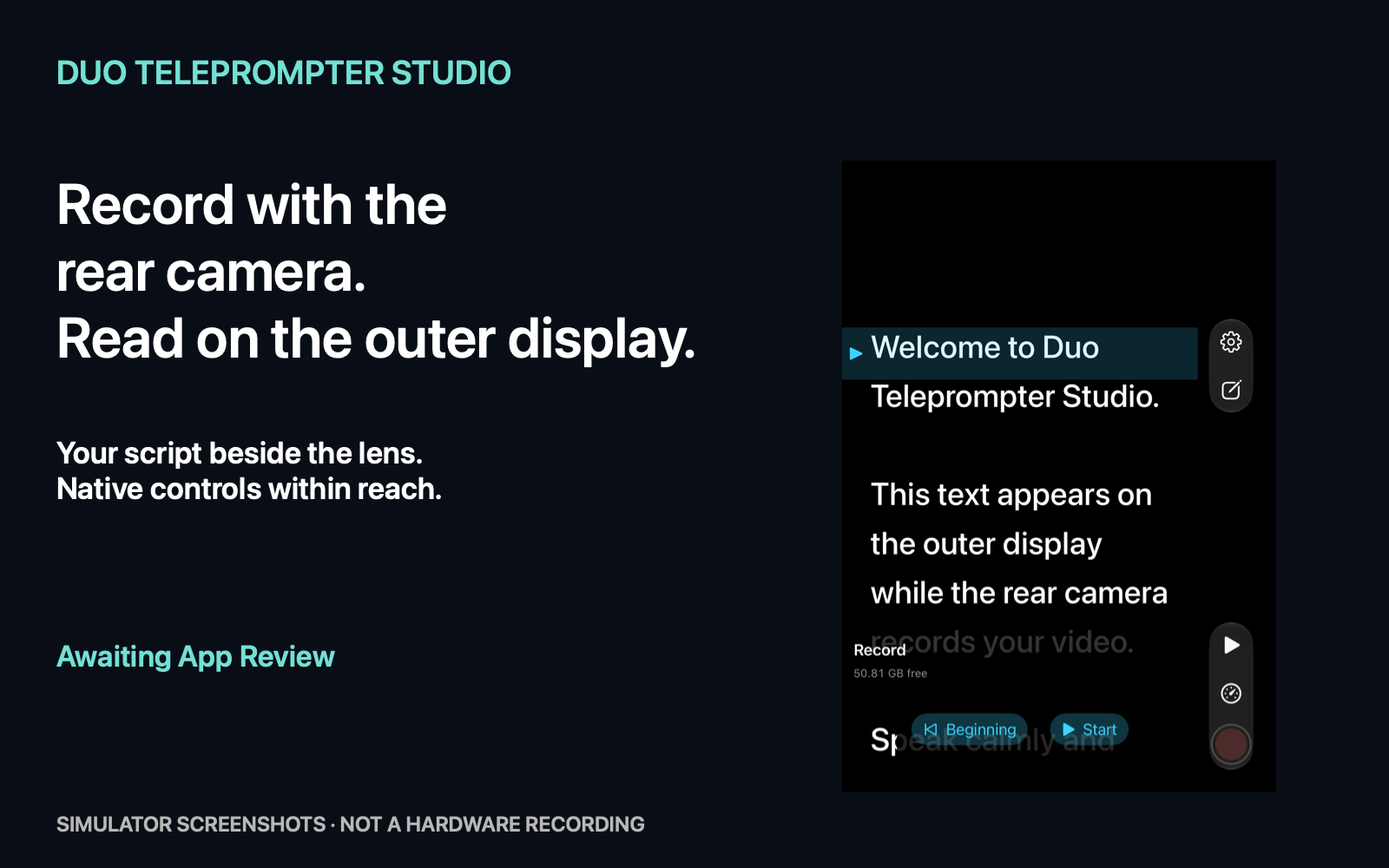
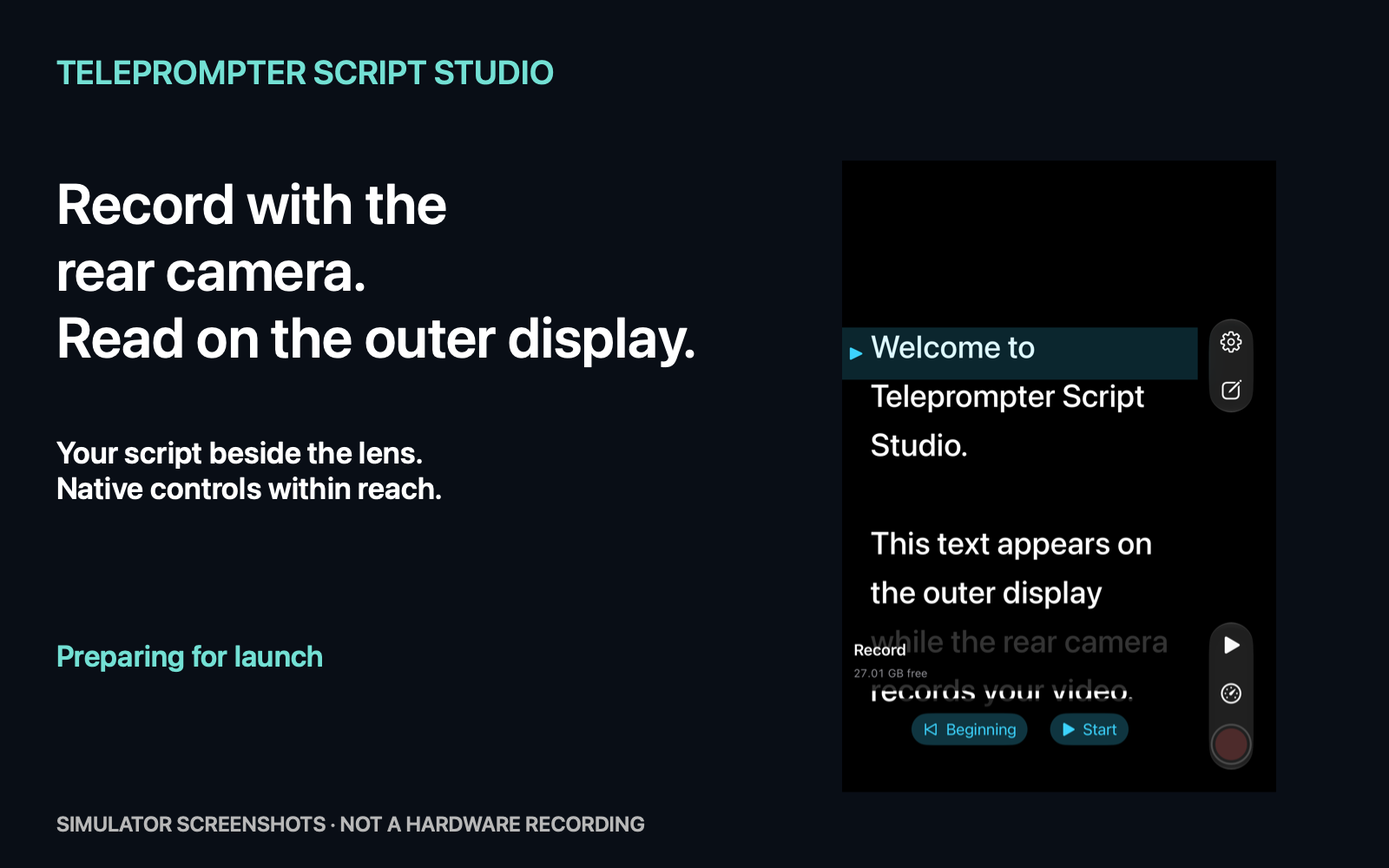
Correct app branding to Teleprompter Script Studio and clarify recording compatibility

diff --git a/duo-teleprompter/privacy-de.html b/duo-teleprompter/privacy-de.html
@@ -1,2 +1,2 @@
 <!doctype html>
-<html lang="de"><head><meta charset="utf-8"><meta name="viewport" content="width=device-width,initial-scale=1"><meta name="referrer" content="no-referrer"><title>Datenschutz · Duo Teleprompter Studio</title><link rel="stylesheet" href="styles.css"></head><body><main><nav><a href="index-de.html">Duo Teleprompter Studio</a><a href="support-de.html">Support</a><a href="privacy-de.html">Datenschutz</a><a href="privacy.html" lang="en">English</a></nav><p class="eyebrow">DUO TELEPROMPTER STUDIO</p><h1>Datenschutz</h1><p class="lead">Deine Texte. Deine Aufnahmen. Auf deinem Gerät.</p><p>Stand: 23. Oktober 2026</p><h2>Verantwortlicher und Kontakt</h2><p>Verantwortlich für Duo Teleprompter Studio: Adrian Herbst. Bei Fragen zum Datenschutz oder zur App: shadowenemylp@gmail.com.</p><h2>Lokale Verarbeitung</h2><p>Skripte, importierte Texte, Einstellungen, Lesepositionen und Aufnahmen werden auf deinem Gerät verarbeitet und im App-Container gespeichert. Duo Teleprompter Studio betreibt keine eigenen Server und überträgt diese Inhalte nicht an den Entwickler. Es gibt kein Benutzerkonto, kein Tracking, keine Werbung und keine Analyse-SDKs.</p><h2>Kamera, Mikrofon und Fotos</h2><p>Kamera und Mikrofon werden für deine Videoaufnahmen benötigt. Die Berechtigungen werden bei der ersten Aktivierung angefragt. Beim ausdrücklich gewählten Export nach Fotos fordert die App ausschließlich das Hinzufügen von Videos an; sie liest keine vorhandene Fotomediathek. Die interne Originalaufnahme bleibt erhalten. Berechtigungen kannst du in den iOS-Einstellungen ändern.</p><h2>Dateiimport und Texterkennung</h2><p>Die App liest nur Dateien, die du über die iOS-Dateiauswahl auswählst. TXT, RTF, DOCX und PDF werden lokal verarbeitet. Texterkennung für gescannte PDF-Seiten erfolgt auf dem Gerät. Falls du Dateien aus einem Cloud-Dateianbieter auswählst, kann iOS sie über diesen Anbieter laden.</p><h2>Speicherung und Kontrolle</h2><p>Die App löscht nicht exportierte Aufnahmen nicht automatisch. Durch das Löschen der App werden ihre lokalen Daten entfernt; exportierte Videos bleiben in Fotos. iOS-Gerätesicherungen und eine von dir aktivierte Synchronisierung deiner Fotomediathek können Kopien enthalten. Duo Teleprompter Studio bietet keinen eigenen Cloud-Sync. Systemkopien verwaltest du in den Einstellungen des jeweiligen Apple-Dienstes.</p><h2>Support, Website und deine Rechte</h2><p>Wenn du uns per E-Mail kontaktierst, verarbeiten wir deine Adresse und den Inhalt deiner Nachricht ausschließlich zur Bearbeitung deiner Anfrage auf Grundlage unseres berechtigten Interesses an der Beantwortung (Art. 6 Abs. 1 lit. f DSGVO). Wir löschen die Korrespondenz, sobald sie nicht mehr benötigt wird, soweit keine Aufbewahrungspflichten bestehen. Bitte sende keine privaten Skripte oder Videos. Diese Website wird von GitHub Pages bereitgestellt. GitHub kann technische Zugriffsdaten wie IP-Adressen zur Bereitstellung und Sicherheit verarbeiten. Wir setzen keine eigenen Cookies oder Analysewerkzeuge ein. Für von uns verarbeitete personenbezogene Daten kannst du im gesetzlichen Umfang Auskunft, Berichtigung, Löschung, Einschränkung, Widerspruch und Datenübertragbarkeit verlangen und dich bei einer Datenschutzaufsichtsbehörde beschweren. Wende dich dafür an die oben genannte Kontaktadresse. Auf deine lokalen App-Inhalte haben wir keinen Zugriff.</p><p><a href="https://docs.github.com/en/site-policy/privacy-policies/github-general-privacy-statement">GitHub Privacy Statement</a> · <a href="https://www.apple.com/legal/privacy/">Apple Privacy Policy</a></p><footer>© 2026 Adrian Herbst · <a href="mailto:shadowenemylp@gmail.com">shadowenemylp@gmail.com</a> · <a href="imprint.html">Impressum / Legal notice</a></footer></main></body></html>
+<html lang="de"><head><meta charset="utf-8"><meta name="viewport" content="width=device-width,initial-scale=1"><meta name="referrer" content="no-referrer"><title>Datenschutz · Teleprompter Script Studio</title><link rel="stylesheet" href="styles.css"></head><body><main><nav><a href="index-de.html">Teleprompter Script Studio</a><a href="support-de.html">Support</a><a href="privacy-de.html">Datenschutz</a><a href="privacy.html" lang="en">English</a></nav><p class="eyebrow">TELEPROMPTER SCRIPT STUDIO</p><h1>Datenschutz</h1><p class="lead">Deine Texte. Deine Aufnahmen. Auf deinem Gerät.</p><p>Stand: 23. Oktober 2026</p><h2>Verantwortlicher und Kontakt</h2><p>Verantwortlich für Teleprompter Script Studio: Adrian Herbst. Bei Fragen zum Datenschutz oder zur App: shadowenemylp@gmail.com.</p><h2>Lokale Verarbeitung</h2><p>Skripte, importierte Texte, Einstellungen, Lesepositionen und Aufnahmen werden auf deinem Gerät verarbeitet und im App-Container gespeichert. Teleprompter Script Studio betreibt keine eigenen Server und überträgt diese Inhalte nicht an den Entwickler. Es gibt kein Benutzerkonto, kein Tracking, keine Werbung und keine Analyse-SDKs.</p><h2>Kamera, Mikrofon und Fotos</h2><p>Kamera und Mikrofon werden für deine Videoaufnahmen benötigt. Die Berechtigungen werden bei der ersten Aktivierung angefragt. Beim ausdrücklich gewählten Export nach Fotos fordert die App ausschließlich das Hinzufügen von Videos an; sie liest keine vorhandene Fotomediathek. Die interne Originalaufnahme bleibt erhalten. Berechtigungen kannst du in den iOS-Einstellungen ändern.</p><h2>Dateiimport und Texterkennung</h2><p>Die App liest nur Dateien, die du über die iOS-Dateiauswahl auswählst. TXT, RTF, DOCX und PDF werden lokal verarbeitet. Texterkennung für gescannte PDF-Seiten erfolgt auf dem Gerät. Falls du Dateien aus einem Cloud-Dateianbieter auswählst, kann iOS sie über diesen Anbieter laden.</p><h2>Speicherung und Kontrolle</h2><p>Die App löscht nicht exportierte Aufnahmen nicht automatisch. Durch das Löschen der App werden ihre lokalen Daten entfernt; exportierte Videos bleiben in Fotos. iOS-Gerätesicherungen und eine von dir aktivierte Synchronisierung deiner Fotomediathek können Kopien enthalten. Teleprompter Script Studio bietet keinen eigenen Cloud-Sync. Systemkopien verwaltest du in den Einstellungen des jeweiligen Apple-Dienstes.</p><h2>Support, Website und deine Rechte</h2><p>Wenn du uns per E-Mail kontaktierst, verarbeiten wir deine Adresse und den Inhalt deiner Nachricht ausschließlich zur Bearbeitung deiner Anfrage auf Grundlage unseres berechtigten Interesses an der Beantwortung (Art. 6 Abs. 1 lit. f DSGVO). Wir löschen die Korrespondenz, sobald sie nicht mehr benötigt wird, soweit keine Aufbewahrungspflichten bestehen. Bitte sende keine privaten Skripte oder Videos. Diese Website wird von GitHub Pages bereitgestellt. GitHub kann technische Zugriffsdaten wie IP-Adressen zur Bereitstellung und Sicherheit verarbeiten. Wir setzen keine eigenen Cookies oder Analysewerkzeuge ein. Für von uns verarbeitete personenbezogene Daten kannst du im gesetzlichen Umfang Auskunft, Berichtigung, Löschung, Einschränkung, Widerspruch und Datenübertragbarkeit verlangen und dich bei einer Datenschutzaufsichtsbehörde beschweren. Wende dich dafür an die oben genannte Kontaktadresse. Auf deine lokalen App-Inhalte haben wir keinen Zugriff.</p><p><a href="https://docs.github.com/en/site-policy/privacy-policies/github-general-privacy-statement">GitHub Privacy Statement</a> · <a href="https://www.apple.com/legal/privacy/">Apple Privacy Policy</a></p><footer>© 2026 Adrian Herbst · <a href="mailto:shadowenemylp@gmail.com">shadowenemylp@gmail.com</a> · <a href="imprint.html">Impressum / Legal notice</a></footer></main></body></html>

diff --git a/duo-teleprompter/privacy.html b/duo-teleprompter/privacy.html
@@ -1,2 +1,2 @@
 <!doctype html>
-<html lang="en"><head><meta charset="utf-8"><meta name="viewport" content="width=device-width,initial-scale=1"><meta name="referrer" content="no-referrer"><title>Privacy Policy · Duo Teleprompter Studio</title><link rel="stylesheet" href="styles.css"></head><body><main><nav><a href="index.html">Duo Teleprompter Studio</a><a href="support.html">Support</a><a href="privacy.html">Privacy</a><a href="privacy-de.html" lang="de">Deutsch</a></nav><p class="eyebrow">DUO TELEPROMPTER STUDIO</p><h1>Privacy Policy</h1><p class="lead">Your scripts. Your recordings. On your device.</p><p>Last updated: October 23, 2026</p><h2>Controller and contact</h2><p>Duo Teleprompter Studio is provided by Adrian Herbst. For privacy or app questions: shadowenemylp@gmail.com.</p><h2>On-device processing</h2><p>Scripts, imported text, preferences, reading positions and recordings are processed on your device and stored in the app container. Duo Teleprompter Studio has no backend and does not send this content to the developer. There are no accounts, tracking, ads or analytics SDKs.</p><h2>Camera, microphone and Photos</h2><p>Camera and microphone access is needed to record your videos and is requested when you first activate capture. When you explicitly choose Save to Photos, the app requests add-only access; it does not read your existing photo library. The internal original recording is retained. You can change permissions in iOS Settings.</p><h2>File import and text recognition</h2><p>The app reads files you select using the iOS document picker. TXT, RTF, DOCX and PDF are processed locally. Text recognition for scanned PDF pages runs on-device. If you select files from a cloud file provider, iOS may retrieve them from that provider.</p><h2>Storage and control</h2><p>The app does not automatically delete unexported recordings. Deleting the app removes its local data; exported videos remain in Photos. iOS device backups and photo library sync that you enable may contain copies. Duo Teleprompter Studio does not provide its own cloud sync. Manage system copies in the relevant Apple service settings.</p><h2>Support, website and your rights</h2><p>If you contact us by email, we use your address and message only to handle your request, based on our legitimate interest in answering it (Article 6(1)(f) GDPR). We delete correspondence when no longer needed, subject to legal retention duties. Please do not send private scripts or videos. This website is hosted by GitHub Pages. GitHub may process technical access data, such as IP addresses, for delivery and security. We do not add cookies or analytics. For personal data we process, you may request access, rectification, erasure, restriction, objection or portability as provided by law, and complain to a data protection supervisory authority. Contact us at the address above. We cannot access your local app content.</p><p><a href="https://docs.github.com/en/site-policy/privacy-policies/github-general-privacy-statement">GitHub Privacy Statement</a> · <a href="https://www.apple.com/legal/privacy/">Apple Privacy Policy</a></p><footer>© 2026 Adrian Herbst · <a href="mailto:shadowenemylp@gmail.com">shadowenemylp@gmail.com</a> · <a href="imprint.html">Impressum / Legal notice</a></footer></main></body></html>
+<html lang="en"><head><meta charset="utf-8"><meta name="viewport" content="width=device-width,initial-scale=1"><meta name="referrer" content="no-referrer"><title>Privacy Policy · Teleprompter Script Studio</title><link rel="stylesheet" href="styles.css"></head><body><main><nav><a href="index.html">Teleprompter Script Studio</a><a href="support.html">Support</a><a href="privacy.html">Privacy</a><a href="privacy-de.html" lang="de">Deutsch</a></nav><p class="eyebrow">TELEPROMPTER SCRIPT STUDIO</p><h1>Privacy Policy</h1><p class="lead">Your scripts. Your recordings. On your device.</p><p>Last updated: October 23, 2026</p><h2>Controller and contact</h2><p>Teleprompter Script Studio is provided by Adrian Herbst. For privacy or app questions: shadowenemylp@gmail.com.</p><h2>On-device processing</h2><p>Scripts, imported text, preferences, reading positions and recordings are processed on your device and stored in the app container. Teleprompter Script Studio has no backend and does not send this content to the developer. There are no accounts, tracking, ads or analytics SDKs.</p><h2>Camera, microphone and Photos</h2><p>Camera and microphone access is needed to record your videos and is requested when you first activate capture. When you explicitly choose Save to Photos, the app requests add-only access; it does not read your existing photo library. The internal original recording is retained. You can change permissions in iOS Settings.</p><h2>File import and text recognition</h2><p>The app reads files you select using the iOS document picker. TXT, RTF, DOCX and PDF are processed locally. Text recognition for scanned PDF pages runs on-device. If you select files from a cloud file provider, iOS may retrieve them from that provider.</p><h2>Storage and control</h2><p>The app does not automatically delete unexported recordings. Deleting the app removes its local data; exported videos remain in Photos. iOS device backups and photo library sync that you enable may contain copies. Teleprompter Script Studio does not provide its own cloud sync. Manage system copies in the relevant Apple service settings.</p><h2>Support, website and your rights</h2><p>If you contact us by email, we use your address and message only to handle your request, based on our legitimate interest in answering it (Article 6(1)(f) GDPR). We delete correspondence when no longer needed, subject to legal retention duties. Please do not send private scripts or videos. This website is hosted by GitHub Pages. GitHub may process technical access data, such as IP addresses, for delivery and security. We do not add cookies or analytics. For personal data we process, you may request access, rectification, erasure, restriction, objection or portability as provided by law, and complain to a data protection supervisory authority. Contact us at the address above. We cannot access your local app content.</p><p><a href="https://docs.github.com/en/site-policy/privacy-policies/github-general-privacy-statement">GitHub Privacy Statement</a> · <a href="https://www.apple.com/legal/privacy/">Apple Privacy Policy</a></p><footer>© 2026 Adrian Herbst · <a href="mailto:shadowenemylp@gmail.com">shadowenemylp@gmail.com</a> · <a href="imprint.html">Impressum / Legal notice</a></footer></main></body></html>

diff --git a/duo-teleprompter/index-de.html b/duo-teleprompter/index-de.html
@@ -1,2 +1,2 @@
 <!doctype html>
-<html lang="de"><head><meta charset="utf-8"><meta name="viewport" content="width=device-width,initial-scale=1"><meta name="referrer" content="no-referrer"><title>Ruhig sprechen. Im Bild bleiben. · Duo Teleprompter Studio</title><link rel="stylesheet" href="styles.css"><!-- marketing:start --><meta name="description" content="Record with the rear camera. Read your script on the outer display. Awaiting App Review."><meta property="og:type" content="website"><meta property="og:title" content="Duo Teleprompter Studio"><meta property="og:description" content="Record with the rear camera. Read your script on the outer display. Awaiting App Review."><meta property="og:url" content="https://shadowenemyx.github.io/duo-teleprompter/"><meta property="og:image" content="https://shadowenemyx.github.io/duo-teleprompter/social-preview.png"><meta property="og:image:width" content="1600"><meta property="og:image:height" content="1000"><meta property="og:image:alt" content="Duo Teleprompter Studio simulator screenshot: white script on a dark outer display with a reading marker and native settings, script, playback, speed and record controls. Awaiting App Review. Not a hardware recording."><meta name="twitter:card" content="summary_large_image"><!-- marketing:end --></head><body><main><nav><a href="index-de.html">Duo Teleprompter Studio</a><a href="support-de.html">Support</a><a href="privacy-de.html">Datenschutz</a><a href="index.html" lang="en">English</a></nav><p class="eyebrow">DUO TELEPROMPTER STUDIO</p><h1>Ruhig sprechen. Im Bild bleiben.</h1><p class="lead">Kamera und Teleprompter für iPhone Duo.</p><section id="launch-status" class="card" aria-label="Release status"><strong>Wartet auf App-Prüfung · Noch nicht erhältlich</strong><p>Record with the rear camera. Read your script on the outer display.</p><figure style="margin:0"><img src="social-preview.png" width="1600" height="1000" style="width:100%;height:auto" alt="Duo Teleprompter Studio simulator screenshot: white script on a dark outer display with a reading marker and native settings, script, playback, speed and record controls. Awaiting App Review. Not a hardware recording."><figcaption>Simulatoraufnahme — kein Hardware-Aufnahmenachweis.</figcaption></figure></section><div class="card"><ul><li>Mit den rückseitigen Kameras filmen und das Skript auf dem Außendisplay des geöffneten iPhone Duo lesen.</li><li>Text eingeben, einfügen oder aus TXT, RTF, DOCX und PDF importieren.</li><li>Tempo, Schriftgröße, Zeilenabstand und Textbreite anpassen. Countdown und optionale Textspiegelung.</li><li>Videos mit Ton app-intern behalten und auf Wunsch in Fotos speichern. Deutsch und Englisch.</li><li>Die Außenansicht benötigt eine aktive Kamera, die App innen im Vollbild und eine verfügbare Kamera-Accessory-Ansicht. Keine Einblendung über fremden Kamera-Apps.</li></ul></div><p>Einmalkauf. Kein Abo. Keine Werbung. Keine Benutzerkonten.</p><footer>© 2026 Adrian Herbst · <a href="mailto:shadowenemylp@gmail.com">shadowenemylp@gmail.com</a> · <a href="imprint.html">Impressum / Legal notice</a></footer></main></body></html>
+<html lang="de"><head><meta charset="utf-8"><meta name="viewport" content="width=device-width,initial-scale=1"><meta name="referrer" content="no-referrer"><title>Ruhig sprechen. Im Bild bleiben. · Teleprompter Script Studio</title><link rel="stylesheet" href="styles.css"><!-- marketing:start --><meta name="description" content="Record with the rear camera. Read your script on the outer display. Preparing for launch."><meta property="og:type" content="website"><meta property="og:title" content="Teleprompter Script Studio"><meta property="og:description" content="Record with the rear camera. Read your script on the outer display. Preparing for launch."><meta property="og:url" content="https://shadowenemyx.github.io/duo-teleprompter/"><meta property="og:image" content="https://shadowenemyx.github.io/duo-teleprompter/social-preview.png"><meta property="og:image:width" content="1600"><meta property="og:image:height" content="1000"><meta property="og:image:alt" content="Teleprompter Script Studio simulator screenshot: white script on a dark outer display with a reading marker and native settings, script, playback, speed and record controls. Preparing for launch. Not a hardware recording."><meta name="twitter:card" content="summary_large_image"><!-- marketing:end --></head><body><main><nav><a href="index-de.html">Teleprompter Script Studio</a><a href="support-de.html">Support</a><a href="privacy-de.html">Datenschutz</a><a href="index.html" lang="en">English</a></nav><p class="eyebrow">TELEPROMPTER SCRIPT STUDIO</p><h1>Ruhig sprechen. Im Bild bleiben.</h1><p class="lead">Deine Kamera. Dein Text. Dein Tempo.</p><section id="launch-status" class="card" aria-label="Release status"><strong>Start wird vorbereitet · Noch nicht erhältlich</strong><p>Record with the rear camera. Read your script on the outer display.</p><figure style="margin:0"><img src="social-preview.png" width="1600" height="1000" style="width:100%;height:auto" alt="Teleprompter Script Studio simulator screenshot: white script on a dark outer display with a reading marker and native settings, script, playback, speed and record controls. Preparing for launch. Not a hardware recording."><figcaption>Simulatoraufnahme — kein Hardware-Aufnahmenachweis.</figcaption></figure></section><div class="card"><ul><li>Mit den rückseitigen Kameras filmen und das Skript auf dem Außendisplay des geöffneten iPhone Duo lesen.</li><li>Text eingeben, einfügen oder aus TXT, RTF, DOCX und PDF importieren.</li><li>Tempo, Schriftgröße, Zeilenabstand und Textbreite anpassen. Countdown und optionale Textspiegelung.</li><li>Videos mit Ton app-intern behalten und auf Wunsch in Fotos speichern. Deutsch und Englisch.</li><li>Die Außenansicht benötigt eine aktive Kamera, die App innen im Vollbild und eine verfügbare Kamera-Accessory-Ansicht. Keine Einblendung über fremden Kamera-Apps.</li></ul></div><p>Einmalkauf. Kein Abo. Keine Werbung. Keine Benutzerkonten.</p><footer>© 2026 Adrian Herbst · <a href="mailto:shadowenemylp@gmail.com">shadowenemylp@gmail.com</a> · <a href="imprint.html">Impressum / Legal notice</a></footer></main></body></html>

diff --git a/duo-teleprompter/index.html b/duo-teleprompter/index.html
@@ -1,2 +1,2 @@
 <!doctype html>
-<html lang="en"><head><meta charset="utf-8"><meta name="viewport" content="width=device-width,initial-scale=1"><meta name="referrer" content="no-referrer"><title>Speak naturally. Stay in frame. · Duo Teleprompter Studio</title><link rel="stylesheet" href="styles.css"><!-- marketing:start --><meta name="description" content="Record with the rear camera. Read your script on the outer display. Awaiting App Review."><meta property="og:type" content="website"><meta property="og:title" content="Duo Teleprompter Studio"><meta property="og:description" content="Record with the rear camera. Read your script on the outer display. Awaiting App Review."><meta property="og:url" content="https://shadowenemyx.github.io/duo-teleprompter/"><meta property="og:image" content="https://shadowenemyx.github.io/duo-teleprompter/social-preview.png"><meta property="og:image:width" content="1600"><meta property="og:image:height" content="1000"><meta property="og:image:alt" content="Duo Teleprompter Studio simulator screenshot: white script on a dark outer display with a reading marker and native settings, script, playback, speed and record controls. Awaiting App Review. Not a hardware recording."><meta name="twitter:card" content="summary_large_image"><!-- marketing:end --></head><body><main><nav><a href="index.html">Duo Teleprompter Studio</a><a href="support.html">Support</a><a href="privacy.html">Privacy</a><a href="index-de.html" lang="de">Deutsch</a></nav><p class="eyebrow">DUO TELEPROMPTER STUDIO</p><h1>Speak naturally. Stay in frame.</h1><p class="lead">Camera and teleprompter for iPhone Duo.</p><section id="launch-status" class="card" aria-label="Release status"><strong>Awaiting App Review · Not yet available to buy</strong><p>Record with the rear camera. Read your script on the outer display.</p><figure style="margin:0"><img src="social-preview.png" width="1600" height="1000" style="width:100%;height:auto" alt="Duo Teleprompter Studio simulator screenshot: white script on a dark outer display with a reading marker and native settings, script, playback, speed and record controls. Awaiting App Review. Not a hardware recording."><figcaption>Simulator screenshot — not a hardware recording.</figcaption></figure></section><div class="card"><ul><li>Record with the rear cameras while reading your script on the outer display of an open iPhone Duo.</li><li>Type, paste or import scripts from TXT, RTF, DOCX and PDF.</li><li>Adjust speed, font size, line spacing and text width. Countdown and optional text mirroring.</li><li>Keep videos with audio inside the app and explicitly save to Photos. German and English.</li><li>The outer view requires an active camera, the app full-screen on the inner display, and an available camera accessory view. No overlay over other camera apps.</li></ul></div><p>One-time purchase. No subscription. No ads. No accounts.</p><footer>© 2026 Adrian Herbst · <a href="mailto:shadowenemylp@gmail.com">shadowenemylp@gmail.com</a> · <a href="imprint.html">Impressum / Legal notice</a></footer></main></body></html>
+<html lang="en"><head><meta charset="utf-8"><meta name="viewport" content="width=device-width,initial-scale=1"><meta name="referrer" content="no-referrer"><title>Speak naturally. Stay in frame. · Teleprompter Script Studio</title><link rel="stylesheet" href="styles.css"><!-- marketing:start --><meta name="description" content="Record with the rear camera. Read your script on the outer display. Preparing for launch."><meta property="og:type" content="website"><meta property="og:title" content="Teleprompter Script Studio"><meta property="og:description" content="Record with the rear camera. Read your script on the outer display. Preparing for launch."><meta property="og:url" content="https://shadowenemyx.github.io/duo-teleprompter/"><meta property="og:image" content="https://shadowenemyx.github.io/duo-teleprompter/social-preview.png"><meta property="og:image:width" content="1600"><meta property="og:image:height" content="1000"><meta property="og:image:alt" content="Teleprompter Script Studio simulator screenshot: white script on a dark outer display with a reading marker and native settings, script, playback, speed and record controls. Preparing for launch. Not a hardware recording."><meta name="twitter:card" content="summary_large_image"><!-- marketing:end --></head><body><main><nav><a href="index.html">Teleprompter Script Studio</a><a href="support.html">Support</a><a href="privacy.html">Privacy</a><a href="index-de.html" lang="de">Deutsch</a></nav><p class="eyebrow">TELEPROMPTER SCRIPT STUDIO</p><h1>Speak naturally. Stay in frame.</h1><p class="lead">Your camera. Your script. Your own pace.</p><section id="launch-status" class="card" aria-label="Release status"><strong>Preparing for launch · Not yet available to buy</strong><p>Record with the rear camera. Read your script on the outer display.</p><figure style="margin:0"><img src="social-preview.png" width="1600" height="1000" style="width:100%;height:auto" alt="Teleprompter Script Studio simulator screenshot: white script on a dark outer display with a reading marker and native settings, script, playback, speed and record controls. Preparing for launch. Not a hardware recording."><figcaption>Simulator screenshot — not a hardware recording.</figcaption></figure></section><div class="card"><ul><li>Record with the rear cameras while reading your script on the outer display of an open iPhone Duo.</li><li>Type, paste or import scripts from TXT, RTF, DOCX and PDF.</li><li>Adjust speed, font size, line spacing and text width. Countdown and optional text mirroring.</li><li>Keep videos with audio inside the app and explicitly save to Photos. German and English.</li><li>The outer view requires an active camera, the app full-screen on the inner display, and an available camera accessory view. No overlay over other camera apps.</li></ul></div><p>One-time purchase. No subscription. No ads. No accounts.</p><footer>© 2026 Adrian Herbst · <a href="mailto:shadowenemylp@gmail.com">shadowenemylp@gmail.com</a> · <a href="imprint.html">Impressum / Legal notice</a></footer></main></body></html>

diff --git a/duo-teleprompter/support-de.html b/duo-teleprompter/support-de.html
@@ -1,2 +1,2 @@
 <!doctype html>
-<html lang="de"><head><meta charset="utf-8"><meta name="viewport" content="width=device-width,initial-scale=1"><meta name="referrer" content="no-referrer"><title>Support · Duo Teleprompter Studio</title><link rel="stylesheet" href="styles.css"></head><body><main><nav><a href="index-de.html">Duo Teleprompter Studio</a><a href="support-de.html">Support</a><a href="privacy-de.html">Datenschutz</a><a href="index.html" lang="en">English</a></nav><p class="eyebrow">DUO TELEPROMPTER STUDIO</p><h1>Support</h1><p class="lead">Fragen oder ein Problem? Wir helfen per E-Mail.</p><p><a href="mailto:shadowenemylp@gmail.com?subject=Prompter%20Duo%20Support">shadowenemylp@gmail.com</a></p><p>Bitte nenne App-Version, iOS-Version und Gerätemodell sowie die Schritte zum Problem. Sende keine Passwörter, privaten Skripte oder Videos.</p><h2>Wie starte ich eine Aufnahme?</h2><p>Duo öffnen, App innen im Vollbild verwenden, Kamera und Mikrofon aktivieren und das Skript vorbereiten. Sobald die Außenansicht bereit ist, Aufnahme antippen. Nach dem Countdown startet der Take.</p><h2>Wo sind meine Videos?</h2><p>Aufnahmen bleiben in der App. Öffne eine interne Aufnahme und wähle „In Fotos speichern“. Dafür wird nur Zugriff zum Hinzufügen angefragt. Lösche die App erst, nachdem du wichtige Videos exportiert hast.</p><h2>Warum ist außen kein Text zu sehen?</h2><p>Die Funktion benötigt die geöffnete Haltung, die App innen im Vollbild und eine aktive Kamera. Falten, Hintergrund oder Unterbrechungen können die Außenansicht beenden. Eine Aufnahme startet bei Rückkehr nicht automatisch. Die Textprobe funktioniert auch ohne Außenansicht.</p><h2>Welche Dateien kann ich importieren?</h2><p>TXT, RTF, DOCX und PDF über die native Dateiauswahl. Gescannte PDF-Seiten können lokal erkannt werden. Prüfe die Vorschau vor dem Ersetzen oder Anhängen. Handschrift, komplexe Layouts und geschützte Dateien können Grenzen haben.</p><footer>© 2026 Adrian Herbst · <a href="mailto:shadowenemylp@gmail.com">shadowenemylp@gmail.com</a> · <a href="imprint.html">Impressum / Legal notice</a></footer></main></body></html>
+<html lang="de"><head><meta charset="utf-8"><meta name="viewport" content="width=device-width,initial-scale=1"><meta name="referrer" content="no-referrer"><title>Support · Teleprompter Script Studio</title><link rel="stylesheet" href="styles.css"></head><body><main><nav><a href="index-de.html">Teleprompter Script Studio</a><a href="support-de.html">Support</a><a href="privacy-de.html">Datenschutz</a><a href="index.html" lang="en">English</a></nav><p class="eyebrow">TELEPROMPTER SCRIPT STUDIO</p><h1>Support</h1><p class="lead">Fragen oder ein Problem? Wir helfen per E-Mail.</p><p><a href="mailto:shadowenemylp@gmail.com?subject=Teleprompter%20Script%20Studio%20Support">shadowenemylp@gmail.com</a></p><p>Bitte nenne App-Version, iOS-Version und Gerätemodell sowie die Schritte zum Problem. Sende keine Passwörter, privaten Skripte oder Videos.</p><h2>Wie starte ich eine Aufnahme?</h2><p>Skript vorbereiten, Weiter antippen und Kamera-/Mikrofonzugriff erlauben. Lies den Text im Kamerabildschirm oder auf der unterstützten Außenansicht. Aufnahme antippen. Nach dem Countdown startet der Take.</p><h2>Wo sind meine Videos?</h2><p>Aufnahmen bleiben in der App. Öffne eine interne Aufnahme und wähle „In Fotos speichern“. Dafür wird nur Zugriff zum Hinzufügen angefragt. Lösche die App erst, nachdem du wichtige Videos exportiert hast.</p><h2>Warum ist außen kein Text zu sehen?</h2><p>Die Funktion benötigt die geöffnete Haltung, die App innen im Vollbild und eine aktive Kamera. Falten, Hintergrund oder Unterbrechungen können die Außenansicht beenden. Eine Aufnahme startet bei Rückkehr nicht automatisch. Aufnahme und Textlauf im Kamerabildschirm funktionieren auch ohne Außenansicht.</p><h2>Welche Dateien kann ich importieren?</h2><p>TXT, RTF, DOCX und PDF über die native Dateiauswahl. Gescannte PDF-Seiten können lokal erkannt werden. Prüfe die Vorschau vor dem Ersetzen oder Anhängen. Handschrift, komplexe Layouts und geschützte Dateien können Grenzen haben.</p><footer>© 2026 Adrian Herbst · <a href="mailto:shadowenemylp@gmail.com">shadowenemylp@gmail.com</a> · <a href="imprint.html">Impressum / Legal notice</a></footer></main></body></html>

diff --git a/duo-teleprompter/support.html b/duo-teleprompter/support.html
@@ -1,2 +1,2 @@
 <!doctype html>
-<html lang="en"><head><meta charset="utf-8"><meta name="viewport" content="width=device-width,initial-scale=1"><meta name="referrer" content="no-referrer"><title>Support · Duo Teleprompter Studio</title><link rel="stylesheet" href="styles.css"></head><body><main><nav><a href="index.html">Duo Teleprompter Studio</a><a href="support.html">Support</a><a href="privacy.html">Privacy</a><a href="index-de.html" lang="de">Deutsch</a></nav><p class="eyebrow">DUO TELEPROMPTER STUDIO</p><h1>Support</h1><p class="lead">Questions or a problem? Contact us by email.</p><p><a href="mailto:shadowenemylp@gmail.com?subject=Prompter%20Duo%20Support">shadowenemylp@gmail.com</a></p><p>Please include the app version, iOS version, device model and steps to reproduce. Do not send passwords, private scripts or videos.</p><h2>How do I start recording?</h2><p>Open Duo, use the app full-screen on the inner display, activate camera and microphone, and prepare your script. When the outer view is ready, tap Record. The take starts after the countdown.</p><h2>Where are my videos?</h2><p>Recordings stay in the app. Open an internal recording and choose Save to Photos. Only add access is requested. Export important videos before deleting the app.</p><h2>Why is no text visible outside?</h2><p>The feature needs the open pose, the app full-screen inside, and an active camera. Folding, backgrounding or interruptions can remove the outer view. Returning never starts a recording automatically. Rehearsal works without the outer view.</p><h2>Which files can I import?</h2><p>TXT, RTF, DOCX and PDF via the native document picker. Scanned PDF pages can be recognized locally. Check the preview before replacing or appending text. Handwriting, complex layouts and protected files may have limitations.</p><footer>© 2026 Adrian Herbst · <a href="mailto:shadowenemylp@gmail.com">shadowenemylp@gmail.com</a> · <a href="imprint.html">Impressum / Legal notice</a></footer></main></body></html>
+<html lang="en"><head><meta charset="utf-8"><meta name="viewport" content="width=device-width,initial-scale=1"><meta name="referrer" content="no-referrer"><title>Support · Teleprompter Script Studio</title><link rel="stylesheet" href="styles.css"></head><body><main><nav><a href="index.html">Teleprompter Script Studio</a><a href="support.html">Support</a><a href="privacy.html">Privacy</a><a href="index-de.html" lang="de">Deutsch</a></nav><p class="eyebrow">TELEPROMPTER SCRIPT STUDIO</p><h1>Support</h1><p class="lead">Questions or a problem? Contact us by email.</p><p><a href="mailto:shadowenemylp@gmail.com?subject=Teleprompter%20Script%20Studio%20Support">shadowenemylp@gmail.com</a></p><p>Please include the app version, iOS version, device model and steps to reproduce. Do not send passwords, private scripts or videos.</p><h2>How do I start recording?</h2><p>Prepare your script, tap Continue and grant camera and microphone access. Read the script on the camera screen, or use the outer view when supported. Tap Record. The take starts after the countdown.</p><h2>Where are my videos?</h2><p>Recordings stay in the app. Open an internal recording and choose Save to Photos. Only add access is requested. Export important videos before deleting the app.</p><h2>Why is no text visible outside?</h2><p>The feature needs the open pose, the app full-screen inside, and an active camera. Folding, backgrounding or interruptions can remove the outer view. Returning never starts a recording automatically. Recording and on-screen script playback also work without the outer view.</p><h2>Which files can I import?</h2><p>TXT, RTF, DOCX and PDF via the native document picker. Scanned PDF pages can be recognized locally. Check the preview before replacing or appending text. Handwriting, complex layouts and protected files may have limitations.</p><footer>© 2026 Adrian Herbst · <a href="mailto:shadowenemylp@gmail.com">shadowenemylp@gmail.com</a> · <a href="imprint.html">Impressum / Legal notice</a></footer></main></body></html>

diff --git a/duo-teleprompter/media.html b/duo-teleprompter/media.html
@@ -1,1 +1,1 @@
-<!doctype html><html lang="en"><head><meta charset="utf-8"><meta name="viewport" content="width=device-width,initial-scale=1"><title>Media · Duo Teleprompter Studio</title><link rel="stylesheet" href="styles.css"></head><body><main><nav><a href="index.html">Duo Teleprompter Studio</a><a href="support.html">Support</a><a href="privacy.html">Privacy</a></nav><h1>Read beside the lens.</h1><p class="lead">An independent camera and teleprompter app for iPhone Duo.</p><p>The camera preview stays inside. A public camera capture scene accessory displays the script outside, beside the rear cameras. Native controls share capture and reading state.</p><p>The outer view requires an open iPhone Duo, an active camera session, the app full-screen inside and system accessory availability.</p><figure style="margin:24px 0"><img src="store-header.png" style="width:100%;height:auto" width="3840" height="1646" alt="Duo Teleprompter Studio header artwork with a labeled simulator outer-display view"><figcaption>Actual simulator view. Not hardware-recording evidence.</figcaption></figure><p><a href="store-header.png">Download header artwork</a> · <a href="store-search.png">Download search artwork</a></p><h2>Local and focused</h2><p>Type, paste or import TXT, RTF, DOCX and PDF. Adjust font size, spacing, width and speed. Record with audio and explicitly save videos to Photos. German and English interface. No account, ads, subscription or app backend.</p><footer>© 2026 Adrian Herbst · <a href="mailto:shadowenemylp@gmail.com">shadowenemylp@gmail.com</a> · <a href="imprint.html">Legal notice</a></footer></main></body></html>
+<!doctype html><html lang="en"><head><meta charset="utf-8"><meta name="viewport" content="width=device-width,initial-scale=1"><title>Media · Teleprompter Script Studio</title><link rel="stylesheet" href="styles.css"></head><body><main><nav><a href="index.html">Teleprompter Script Studio</a><a href="support.html">Support</a><a href="privacy.html">Privacy</a></nav><h1>Read beside the lens.</h1><p class="lead">An independent camera and teleprompter app for iPhone Duo.</p><p>The camera preview stays inside. A public camera capture scene accessory displays the script outside, beside the rear cameras. Native controls share capture and reading state.</p><p>The outer view requires an open iPhone Duo, an active camera session, the app full-screen inside and system accessory availability.</p><figure style="margin:24px 0"><img src="store-header.png" style="width:100%;height:auto" width="3840" height="1646" alt="Teleprompter Script Studio header artwork with a labeled simulator outer-display view"><figcaption>Actual simulator view. Not hardware-recording evidence.</figcaption></figure><p><a href="store-header.png">Download header artwork</a> · <a href="store-search.png">Download search artwork</a></p><h2>Local and focused</h2><p>Type, paste or import TXT, RTF, DOCX and PDF. Adjust font size, spacing, width and speed. Record with audio and explicitly save videos to Photos. German and English interface. No account, ads, subscription or app backend.</p><footer>© 2026 Adrian Herbst · <a href="mailto:shadowenemylp@gmail.com">shadowenemylp@gmail.com</a> · <a href="imprint.html">Legal notice</a></footer></main></body></html>

diff --git a/duo-teleprompter/imprint.html b/duo-teleprompter/imprint.html
@@ -1,2 +1,2 @@
 <!doctype html>
-<html lang="de"><head><meta charset="utf-8"><meta name="viewport" content="width=device-width,initial-scale=1"><meta name="referrer" content="no-referrer"><title>Impressum / Legal notice · Duo Teleprompter Studio</title><link rel="stylesheet" href="styles.css"></head><body><main><nav><a href="index-de.html">Duo Teleprompter Studio</a><a href="support-de.html">Support</a><a href="privacy-de.html">Datenschutz</a><a href="index.html" lang="en">English</a></nav><p class="eyebrow">DUO TELEPROMPTER STUDIO</p><h1>Impressum / Legal notice</h1><h2>Angaben gemäß § 5 DDG</h2><address>Adrian Herbst<br>Ackerstr. 1<br>06773 Gräfenhainichen<br>Deutschland</address><h2>Kontakt / Contact</h2><p><a href="mailto:shadowenemylp@gmail.com">shadowenemylp@gmail.com</a></p><footer>© 2026 Adrian Herbst · <a href="mailto:shadowenemylp@gmail.com">shadowenemylp@gmail.com</a> · <a href="imprint.html">Impressum / Legal notice</a></footer></main></body></html>
+<html lang="de"><head><meta charset="utf-8"><meta name="viewport" content="width=device-width,initial-scale=1"><meta name="referrer" content="no-referrer"><title>Impressum / Legal notice · Teleprompter Script Studio</title><link rel="stylesheet" href="styles.css"></head><body><main><nav><a href="index-de.html">Teleprompter Script Studio</a><a href="support-de.html">Support</a><a href="privacy-de.html">Datenschutz</a><a href="index.html" lang="en">English</a></nav><p class="eyebrow">TELEPROMPTER SCRIPT STUDIO</p><h1>Impressum / Legal notice</h1><h2>Angaben gemäß § 5 DDG</h2><address>Adrian Herbst<br>Ackerstr. 1<br>06773 Gräfenhainichen<br>Deutschland</address><h2>Kontakt / Contact</h2><p><a href="mailto:shadowenemylp@gmail.com">shadowenemylp@gmail.com</a></p><footer>© 2026 Adrian Herbst · <a href="mailto:shadowenemylp@gmail.com">shadowenemylp@gmail.com</a> · <a href="imprint.html">Impressum / Legal notice</a></footer></main></body></html>

diff --git a/cuevela/privacy-de.html b/cuevela/privacy-de.html
@@ -1,1 +1,1 @@
-<!doctype html><html lang="en"><head><meta charset="utf-8"><meta name="viewport" content="width=device-width,initial-scale=1"><meta http-equiv="refresh" content="0;url=../duo-teleprompter/privacy-de.html"><title>Duo Teleprompter Studio</title></head><body><p><a href="../duo-teleprompter/privacy-de.html">Continue to Duo Teleprompter Studio</a>.</p></body></html>
+<!doctype html><html lang="en"><head><meta charset="utf-8"><meta name="viewport" content="width=device-width,initial-scale=1"><meta http-equiv="refresh" content="0;url=../duo-teleprompter/privacy-de.html"><title>Teleprompter Script Studio</title></head><body><a href="../duo-teleprompter/privacy-de.html">Continue to Teleprompter Script Studio</a></body></html>

diff --git a/cuevela/support-de.html b/cuevela/support-de.html
@@ -1,1 +1,1 @@
-<!doctype html><html lang="en"><head><meta charset="utf-8"><meta name="viewport" content="width=device-width,initial-scale=1"><meta http-equiv="refresh" content="0;url=../duo-teleprompter/support-de.html"><title>Duo Teleprompter Studio</title></head><body><p><a href="../duo-teleprompter/support-de.html">Continue to Duo Teleprompter Studio</a>.</p></body></html>
+<!doctype html><html lang="en"><head><meta charset="utf-8"><meta name="viewport" content="width=device-width,initial-scale=1"><meta http-equiv="refresh" content="0;url=../duo-teleprompter/support-de.html"><title>Teleprompter Script Studio</title></head><body><a href="../duo-teleprompter/support-de.html">Continue to Teleprompter Script Studio</a></body></html>

diff --git a/prompter-duo/privacy.html b/prompter-duo/privacy.html
@@ -1,1 +1,1 @@
-<!doctype html><html lang="en"><head><meta charset="utf-8"><meta name="viewport" content="width=device-width,initial-scale=1"><meta http-equiv="refresh" content="0;url=../duo-teleprompter/privacy-de.html"><title>Duo Teleprompter Studio</title></head><body><p><a href="../duo-teleprompter/privacy-de.html">Continue to Duo Teleprompter Studio</a>.</p></body></html>
+<!doctype html><html lang="en"><head><meta charset="utf-8"><meta name="viewport" content="width=device-width,initial-scale=1"><meta http-equiv="refresh" content="0;url=../duo-teleprompter/privacy-de.html"><title>Teleprompter Script Studio</title></head><body><a href="../duo-teleprompter/privacy-de.html">Continue to Teleprompter Script Studio</a></body></html>

diff --git a/prompter-duo/support.html b/prompter-duo/support.html
@@ -1,1 +1,1 @@
-<!doctype html><html lang="en"><head><meta charset="utf-8"><meta name="viewport" content="width=device-width,initial-scale=1"><meta http-equiv="refresh" content="0;url=../duo-teleprompter/support-de.html"><title>Duo Teleprompter Studio</title></head><body><p><a href="../duo-teleprompter/support-de.html">Continue to Duo Teleprompter Studio</a>.</p></body></html>
+<!doctype html><html lang="en"><head><meta charset="utf-8"><meta name="viewport" content="width=device-width,initial-scale=1"><meta http-equiv="refresh" content="0;url=../duo-teleprompter/support-de.html"><title>Teleprompter Script Studio</title></head><body><a href="../duo-teleprompter/support-de.html">Continue to Teleprompter Script Studio</a></body></html>
